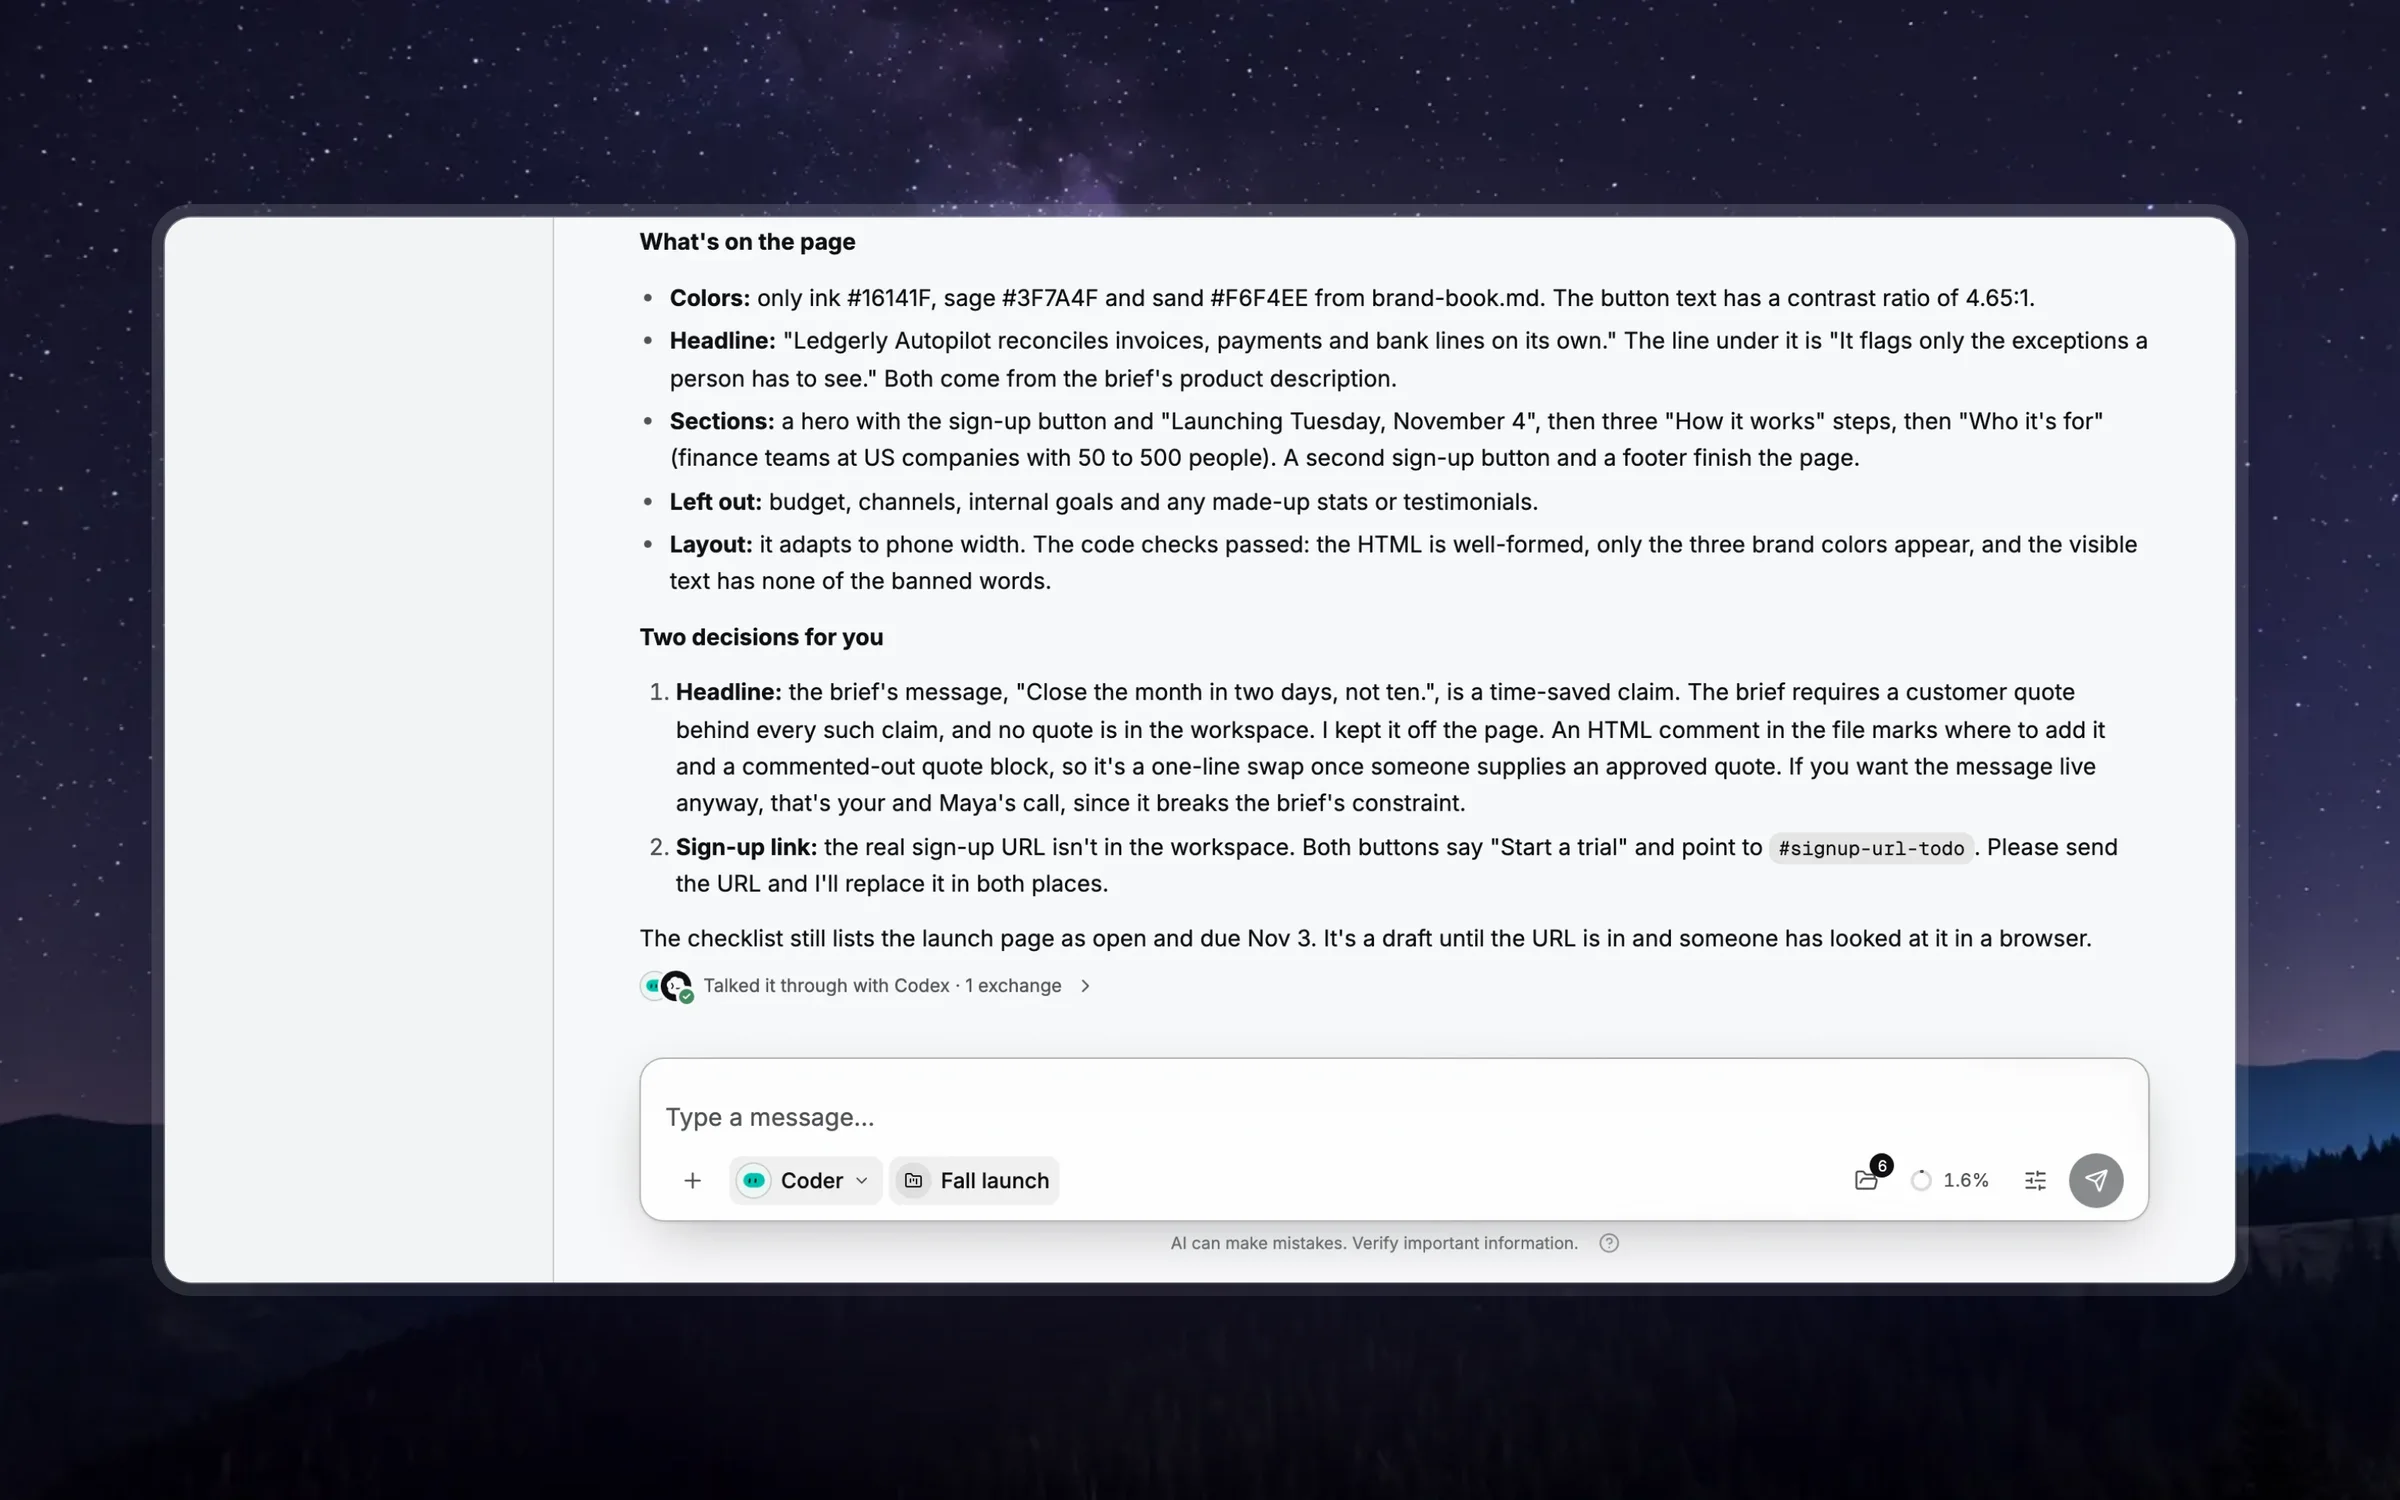
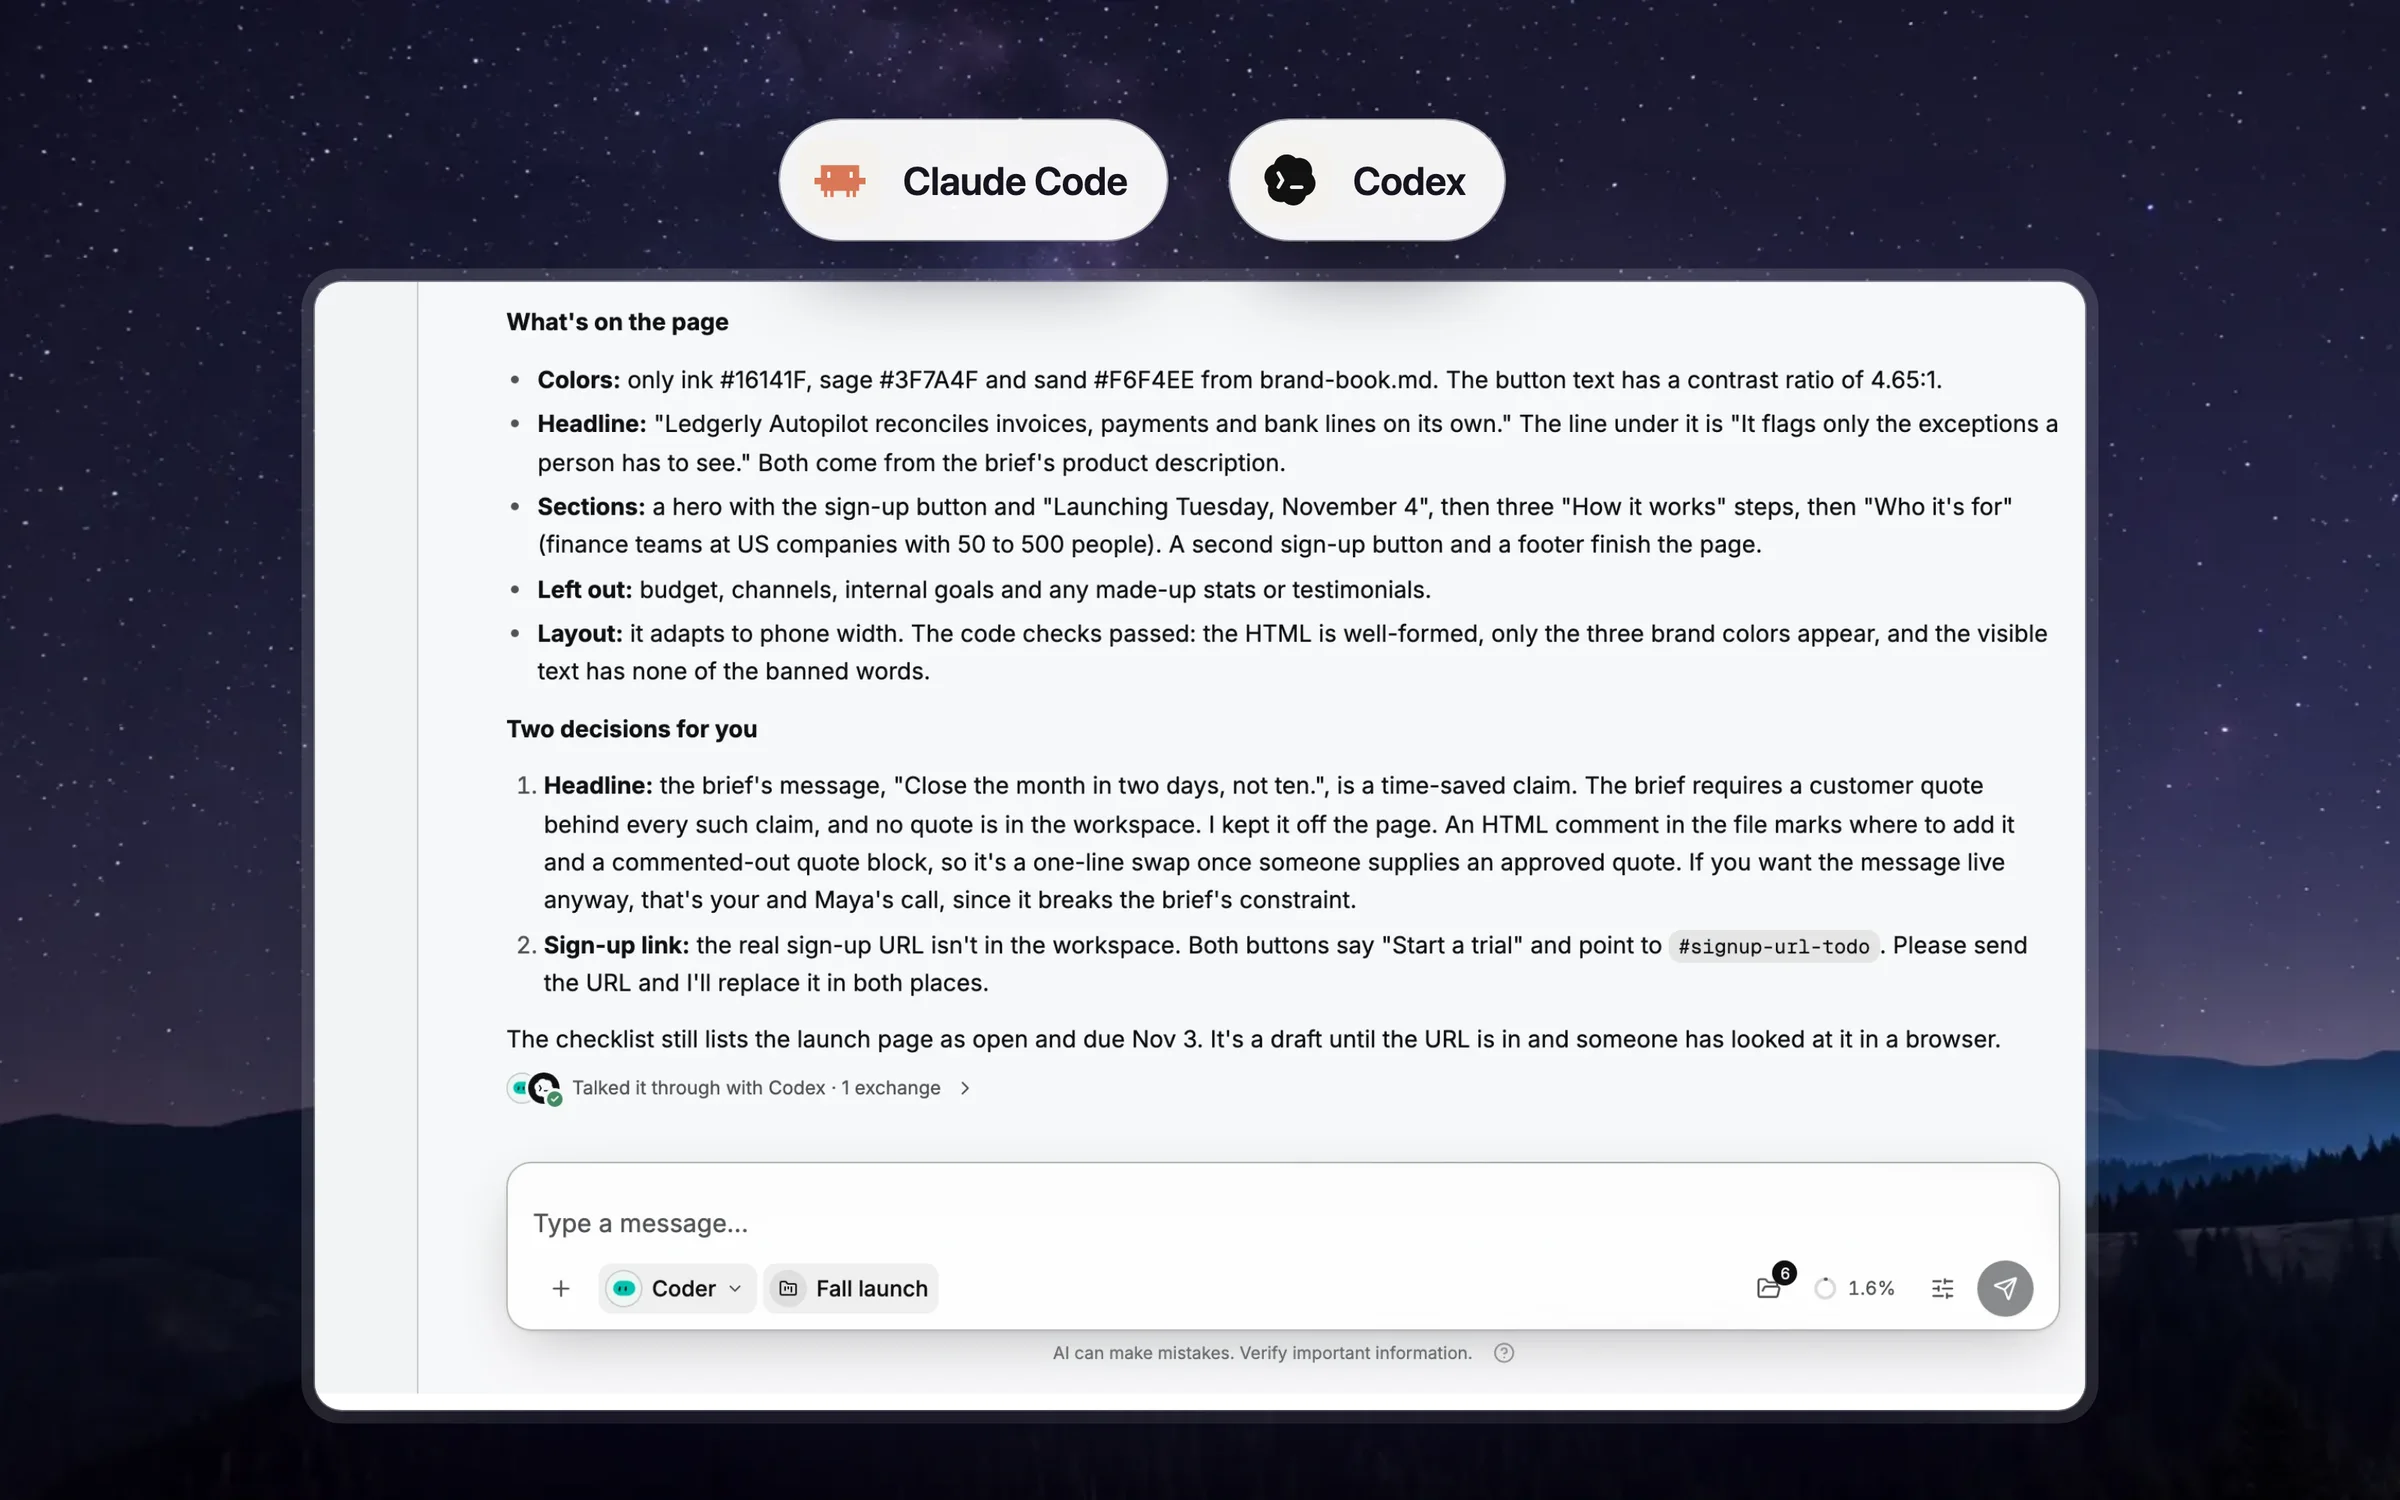
docs(readme): set the coding highlight under the Claude Code and Codex marks
The highlight showed the answer alone; the two harnesses now sit above
the window on the night sky, with marks copied from the landing's brand
glyphs, and the window drops the empty column beside the answer. The
pet at the end of the docs section goes: it read as a joke beside the
architecture links.

Changed region(s): [[0.0625, 0.0613, 0.9375, 0.9507]]

diff --git a/README.es.md b/README.es.md
@@ -1,4 +1,4 @@
-<!-- source_sha: c387ac336e59 -->
+<!-- source_sha: 1c1f9bb567c5 -->
 
 <div align="center">
 
@@ -390,7 +390,7 @@ Llama a un agente publicado con `POST /api/v1/agents/{id}/run` como miembro aute
 
 [Arquitectura](https://vstorm-co.github.io/agenticos/es/architecture/) · [API](https://vstorm-co.github.io/agenticos/es/api/) · [Añadir una capability](https://vstorm-co.github.io/agenticos/es/howto/add-capability/) · [Referencia de capabilities](https://vstorm-co.github.io/agenticos/es/reference/capabilities/) · [Contribuir](https://vstorm-co.github.io/agenticos/es/help/)
 
-La [analogía del sistema operativo](https://vstorm-co.github.io/agenticos/es/about/) explica la arquitectura. La [aplicación de escritorio](https://vstorm-co.github.io/agenticos/es/desktop/) opcional añade una ventana propia, una mascota y un atajo de captura de pantalla en macOS. <img src="docs/assets/amigo-walk.svg" alt="Amigo, la mascota de AgenticOS" width="48" valign="middle">
+La [analogía del sistema operativo](https://vstorm-co.github.io/agenticos/es/about/) explica la arquitectura. La [aplicación de escritorio](https://vstorm-co.github.io/agenticos/es/desktop/) opcional añade una ventana propia, una mascota y un atajo de captura de pantalla en macOS.
 
 ## ❓ Preguntas frecuentes
 

diff --git a/README.de.md b/README.de.md
@@ -1,4 +1,4 @@
-<!-- source_sha: c387ac336e59 -->
+<!-- source_sha: 1c1f9bb567c5 -->
 
 <div align="center">
 
@@ -390,7 +390,7 @@ Rufe einen veröffentlichten Agenten als angemeldetes Mitglied mit `POST /api/v1
 
 [Architektur](https://vstorm-co.github.io/agenticos/de/architecture/) · [API](https://vstorm-co.github.io/agenticos/de/api/) · [Capability hinzufügen](https://vstorm-co.github.io/agenticos/de/howto/add-capability/) · [Capability-Referenz](https://vstorm-co.github.io/agenticos/de/reference/capabilities/) · [Mitwirken](https://vstorm-co.github.io/agenticos/de/help/)
 
-Die [Betriebssystem-Analogie](https://vstorm-co.github.io/agenticos/de/about/) erläutert die Architektur. Die optionale [Desktop-App](https://vstorm-co.github.io/agenticos/de/desktop/) ergänzt ein eigenes Fenster, ein Maskottchen und einen macOS-Kurzbefehl für Screenshots. <img src="docs/assets/amigo-walk.svg" alt="Amigo, das AgenticOS-Maskottchen" width="48" valign="middle">
+Die [Betriebssystem-Analogie](https://vstorm-co.github.io/agenticos/de/about/) erläutert die Architektur. Die optionale [Desktop-App](https://vstorm-co.github.io/agenticos/de/desktop/) ergänzt ein eigenes Fenster, ein Maskottchen und einen macOS-Kurzbefehl für Screenshots.
 
 ## ❓ Häufige Fragen
 

diff --git a/README.pl.md b/README.pl.md
@@ -1,4 +1,4 @@
-<!-- source_sha: c387ac336e59 -->
+<!-- source_sha: 1c1f9bb567c5 -->
 
 <div align="center">
 
@@ -390,7 +390,7 @@ Wywołaj opublikowanego agenta przez `POST /api/v1/agents/{id}/run` jako uwierzy
 
 [Architektura](https://vstorm-co.github.io/agenticos/pl/architecture/) · [API](https://vstorm-co.github.io/agenticos/pl/api/) · [Dodaj capability](https://vstorm-co.github.io/agenticos/pl/howto/add-capability/) · [Referencja capabilities](https://vstorm-co.github.io/agenticos/pl/reference/capabilities/) · [Współtworzenie](https://vstorm-co.github.io/agenticos/pl/help/)
 
-[Analogia systemu operacyjnego](https://vstorm-co.github.io/agenticos/pl/about/) wyjaśnia architekturę. Opcjonalna [aplikacja desktopowa](https://vstorm-co.github.io/agenticos/pl/desktop/) dodaje osobne okno, zwierzaka i skrót do zrzutów ekranu na macOS. <img src="docs/assets/amigo-walk.svg" alt="Amigo, zwierzak AgenticOS" width="48" valign="middle">
+[Analogia systemu operacyjnego](https://vstorm-co.github.io/agenticos/pl/about/) wyjaśnia architekturę. Opcjonalna [aplikacja desktopowa](https://vstorm-co.github.io/agenticos/pl/desktop/) dodaje osobne okno, zwierzaka i skrót do zrzutów ekranu na macOS.
 
 ## ❓ Najczęściej zadawane pytania
 

diff --git a/README.md b/README.md
@@ -388,7 +388,7 @@ Call a published agent with `POST /api/v1/agents/{id}/run` as an authenticated m
 
 [Architecture](https://vstorm-co.github.io/agenticos/architecture/) · [API](https://vstorm-co.github.io/agenticos/api/) · [Add a capability](https://vstorm-co.github.io/agenticos/howto/add-capability/) · [Capability reference](https://vstorm-co.github.io/agenticos/reference/capabilities/) · [Contributing](https://vstorm-co.github.io/agenticos/help/)
 
-The [operating-system analogy](https://vstorm-co.github.io/agenticos/about/) explains the architecture. The optional [desktop app](https://vstorm-co.github.io/agenticos/desktop/) adds a dedicated window, a pet and a macOS screenshot shortcut. <img src="docs/assets/amigo-walk.svg" alt="Amigo, the AgenticOS pet" width="48" valign="middle">
+The [operating-system analogy](https://vstorm-co.github.io/agenticos/about/) explains the architecture. The optional [desktop app](https://vstorm-co.github.io/agenticos/desktop/) adds a dedicated window, a pet and a macOS screenshot shortcut.
 
 ## ❓ Frequently asked questions
 
